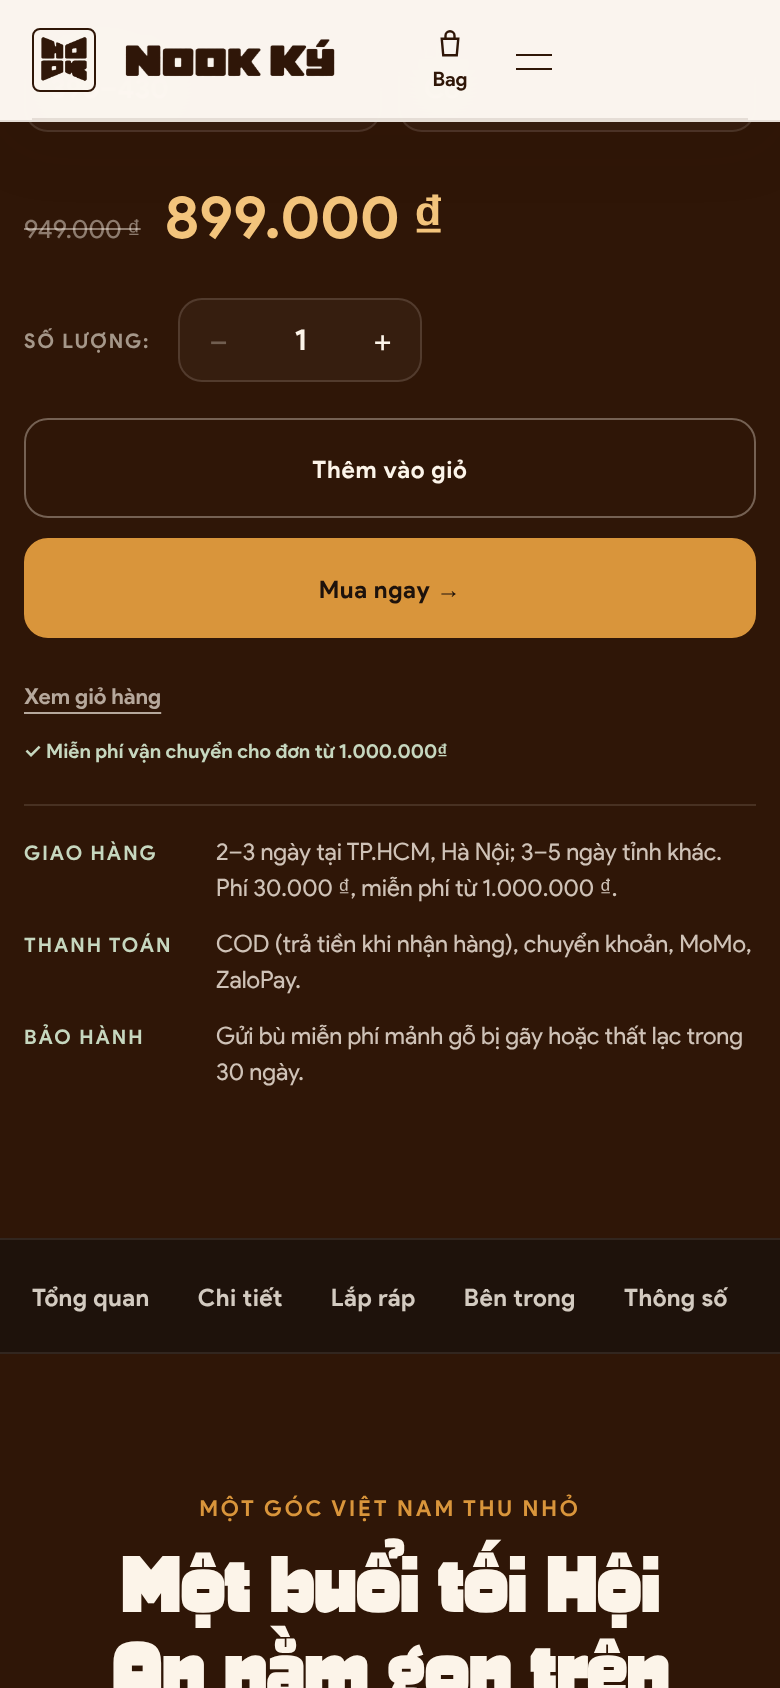
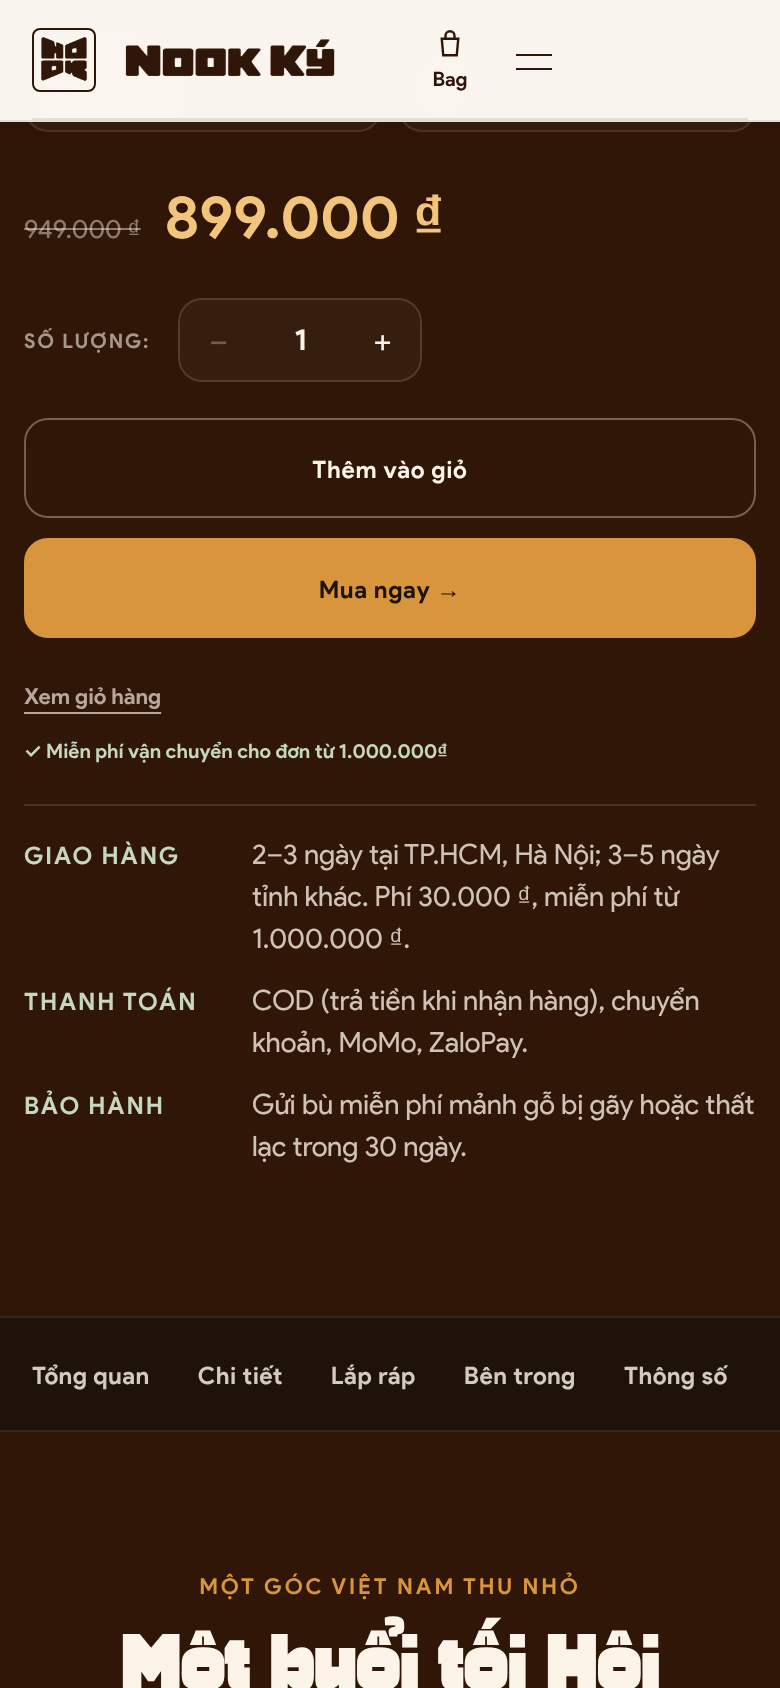
style(pdp): raise text size in new buy-box info and sticky bar to 12-16px
Class feedback flagged small text; the blocks added earlier on this branch used 10-11px.

Claude-Session: https://claude.ai/code/session_01JL4bPrc2ewreGpVs8bHf32

diff --git a/components/commerce/ProductPurchaseSection.module.css b/components/commerce/ProductPurchaseSection.module.css
@@ -139,17 +139,17 @@
 
 .assurances li {
   display: grid;
-  grid-template-columns: 86px 1fr;
+  grid-template-columns: 104px 1fr;
   gap: 10px;
-  font-size: 12px;
+  font-size: 14px;
   line-height: 1.5;
   color: rgba(252, 244, 233, 0.78);
 }
 
 .assurances strong {
-  font-size: 10px;
+  font-size: 12px;
   font-weight: 750;
-  letter-spacing: 0.1em;
+  letter-spacing: 0.08em;
   text-transform: uppercase;
   color: #c6d7bf;
   padding-top: 2px;
@@ -184,14 +184,14 @@
     min-width: 0;
   }
   .stickyName {
-    font-size: 11px;
+    font-size: 13px;
     color: rgba(252, 244, 233, 0.7);
     white-space: nowrap;
     overflow: hidden;
     text-overflow: ellipsis;
   }
   .stickyPrice {
-    font-size: 15px;
+    font-size: 16px;
     color: #fcf4e9;
   }
   .stickyBtn {
@@ -202,7 +202,7 @@
     border: 1px solid #d9953b;
     background: #d9953b;
     color: #1d120c;
-    font-size: 12px;
+    font-size: 14px;
     font-weight: 750;
     cursor: pointer;
   }
